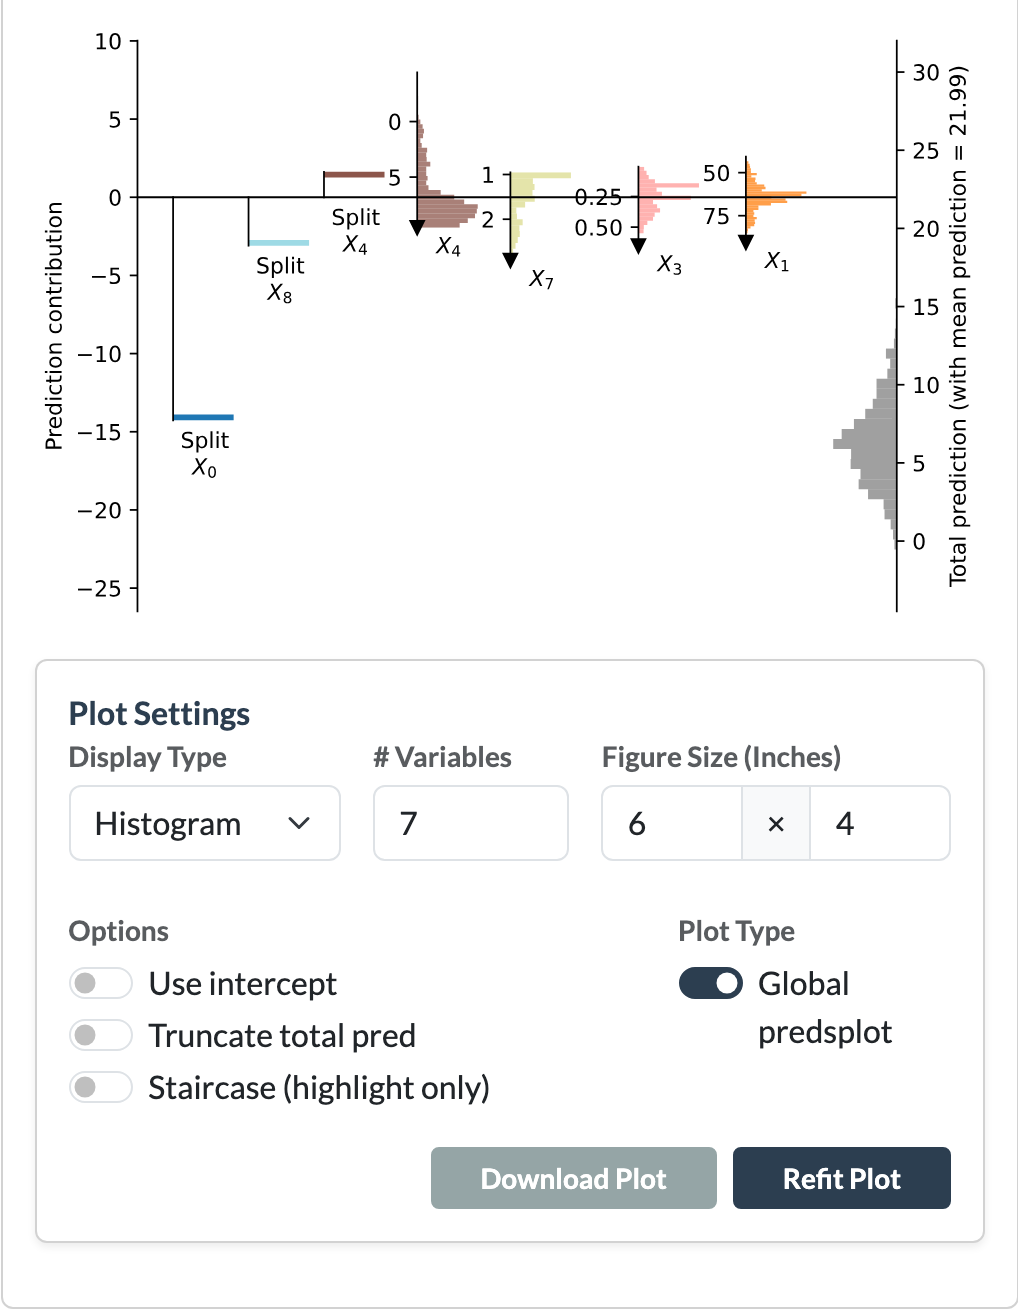
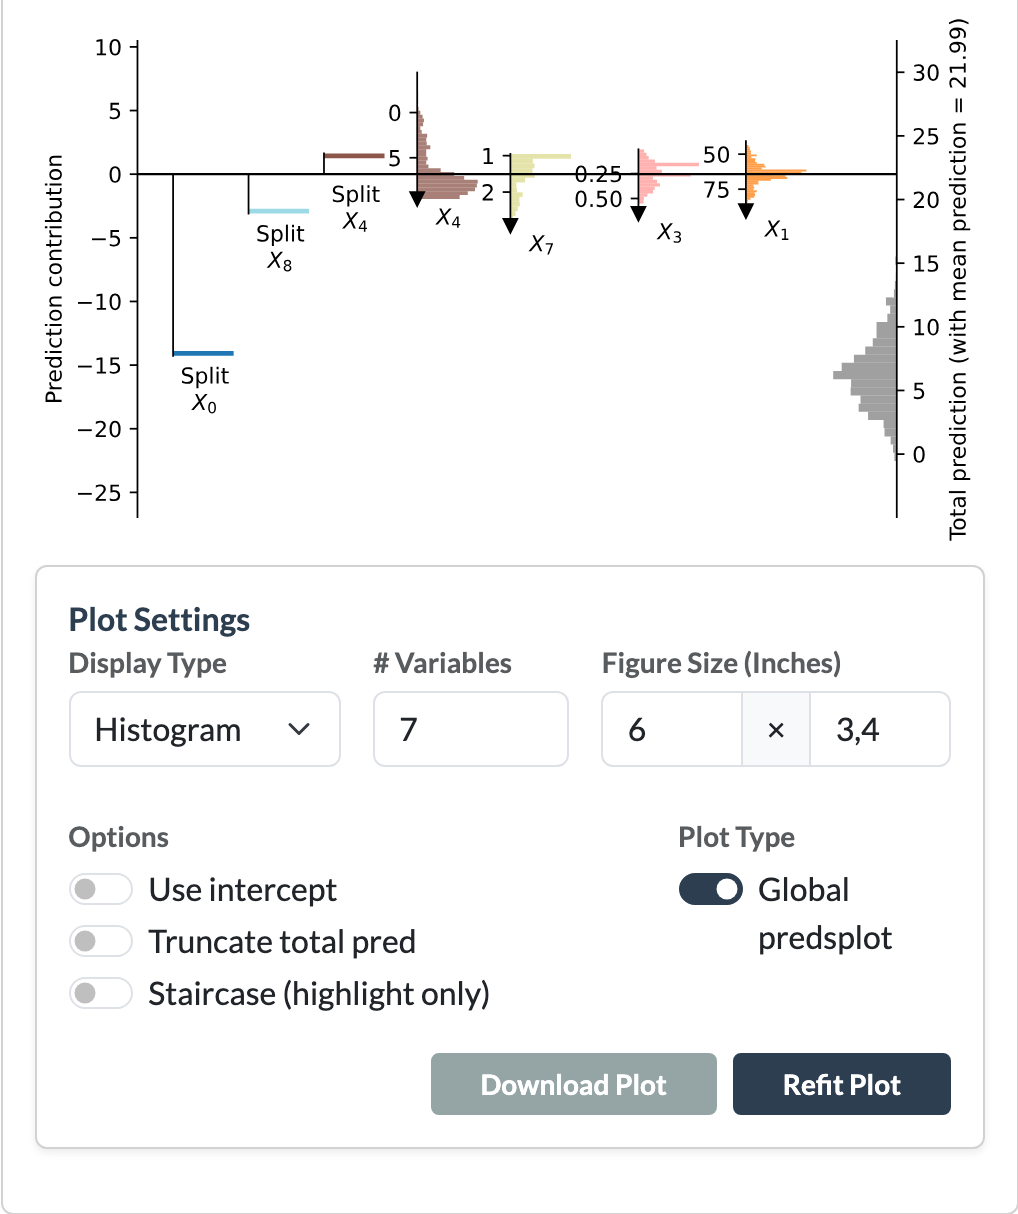
show all node plots fixes

diff --git a/imote/config.py b/imote/config.py
@@ -74,7 +74,7 @@ DEFAULT_COLLAPSE_LEVEL = 5
 DEFAULT_DISPLAY_TYPE = "histogram"
 DEFAULT_NMAX = 7
 DEFAULT_FIG_W = 6
-DEFAULT_FIG_H = 4
+DEFAULT_FIG_H = 3.4
 
 MIN_EDGE_WIDTH = 0.8
 MAX_EDGE_WIDTH = 8
@@ -95,6 +95,11 @@ def get_initial_graph_info():
 # ── Stylesheet ────────────────────────────────────────────────────────────
 font_family = "Arial, sans-serif"
 font_size = 12
+
+NODE_PLOTS_FIG_SIZE = (4.4, 2.6)
+NODE_PLOTS_N_MAX = 6
+NODE_PLOTS_EXTRA_SEP = 40
+plots_on_font_size = 28
 selected_color = "#000000"
 CYTOSCAPE_STYLESHEET = [
     # ── Default node ──────────────────────────────────────────────────────
@@ -139,24 +144,46 @@ CYTOSCAPE_STYLESHEET = [
             "shape": "rectangle",
         },
     },
+    # ── Show all node plots ───────────────────────────────────────────────
+    {
+        "selector": "node.plots_on",
+        "style": {
+            "font-size": f"{plots_on_font_size}px",
+            "text-max-width": "300px",
+            "width": "220px",
+            "height": "90px",
+            "border-width": "3px",
+        },
+    },
+    {
+        "selector": "node.LeafNode.plots_on",
+        "style": {
+            "width": "340px",
+            "height": "130px",
+        },
+    },
+    {
+        "selector": "node.regplot, node.predsplot",
+        "style": {
+            "label": "",
+            "shape": "rectangle",
+            "width": f"{NODE_PLOTS_FIG_SIZE[0] * 100}px",
+            "height": f"{NODE_PLOTS_FIG_SIZE[1] * 100}px",
+            "background-fit": "contain",
+            "background-opacity": 0,
+            "border-width": 0,
+        },
+    },
     {
         "selector": "node.regplot",
         "style": {
-            "label": "",
             "background-image": 'data(dir_regplot)',
-            "shape": "rectangle",
-            "width": "500px",
-            "height": "300px",
         },
     },
     {
         "selector": "node.predsplot",
         "style": {
-            "label": "",
             "background-image": 'data(dir_predsplot)',
-            "shape": "rectangle",
-            "width": "500px",
-            "height": "300px",
         },
     },
     {
@@ -218,6 +245,15 @@ CYTOSCAPE_STYLESHEET = [
         },
     },
     {
+        "selector": "edge.plots_on",
+        "style": {
+            "width": 4,
+            "arrow-scale": 2,
+            "font-size": f"{plots_on_font_size}px",
+            "text-background-padding": "8px",
+        },
+    },
+    {
         "selector": "edge.data_width",
         "style": {
             "width": "data(width)"
@@ -247,6 +283,12 @@ CYTOSCAPE_STYLESHEET = [
             "line-color": selected_color,
             "target-arrow-color": selected_color,
             "width": 4,
+        },
+    },
+    {
+        "selector": "edge.highlight.plots_on",
+        "style": {
+            "width": 10,
         },
     },
 ]

diff --git a/imote/callbacks/g_elements_callbacks.py b/imote/callbacks/g_elements_callbacks.py
@@ -4,7 +4,7 @@ from dash import Input, Output, State, html, no_update, ctx
 from dash.exceptions import PreventUpdate
 
 from imote import ids, status
-from imote.config import DIR_LIVE_OUTPUT
+from imote.config import DIR_LIVE_OUTPUT, NODE_PLOTS_FIG_SIZE, NODE_PLOTS_N_MAX
 from imote.viz_tree.viz_tree import VizTree
 from imote.viz_tree.viz_tree_cytoscape import viz_tree_to_cytoscape_elements
 
@@ -108,14 +108,8 @@ def register_callbacks(app):
         State(ids.SWITCH_COLOR_FEATURES, "value"),
         State(ids.SWITCH_RSS, "value"),
         State(ids.STORE_VIZ_TREE, "data"),
-        State(ids.INPUT_DISPLAY_TYPE, "value"),
-        State(ids.INPUT_NMAX, "value"),
-        State(ids.INPUT_FIG_W, "value"),
-        State(ids.INPUT_FIG_H, "value"),
-        State(ids.PREDSPLOT_OPTIONS, "value"),
         State(ids.STORE_HIGHLIGHT_X, "data"),
         State(ids.HIGHLIGHT_OPTIONS, "value"),
-        State(ids.PREDSPLOT_TYPE, "value"),
         State(ids.SWITCH_DATA_EDGE_WIDTH, "value"),
         State(ids.SWITCH_DATA_NODE_SIZE, "value"),
         State(ids.STORE_TREE_PARAMS, "data"),
@@ -131,14 +125,8 @@ def register_callbacks(app):
             use_color_features,
             show_rss,
             viz_tree_dict,
-            display_type,
-            nmax,
-            figw,
-            figh,
-            predsplot_options,
             highlight_x,
             highlight_options,
-            predsplot_type,
             use_edge_width,
             use_node_size,
             tree_params,
@@ -149,10 +137,6 @@ def register_callbacks(app):
         if viz_tree_dict is None:
             raise PreventUpdate
 
-        use_intercept = "intercept" in predsplot_options
-        truncate_total_pred = "truncate" in predsplot_options
-        staircase = "staircase" in predsplot_options
-        type2 = "type2" in predsplot_type
         only_show_highlight = "only_show_highlight" in highlight_options
 
         viz_tree = VizTree.from_dict(viz_tree_dict)
@@ -169,13 +153,12 @@ def register_callbacks(app):
                 use_color_features = use_color_features,
                 show_rss=show_rss,
                 show_node_plots=show_node_plots,
-                fig_size=(figw, figh),
-                predsplot_n_max=nmax,
-                predsplot_use_intercept=use_intercept,
-                predsplot_display_type=display_type,
-                predsplot_truncate_total_pred=truncate_total_pred,
-                predsplot_staircase=staircase,
-                predsplot_type2=type2,
+                fig_size=NODE_PLOTS_FIG_SIZE,
+                predsplot_n_max=NODE_PLOTS_N_MAX,
+                predsplot_display_type="histogram",
+                predsplot_truncate_total_pred=False,
+                predsplot_staircase=False,
+                predsplot_type2=True,
                 highlight_x=highlight_x_arr,
                 only_show_highlight=only_show_highlight,
                 use_edge_width = use_edge_width,

diff --git a/imote/plots/predsplot2.py b/imote/plots/predsplot2.py
@@ -24,7 +24,7 @@ DOT_SIZE = 4
 
 def predsplot2(viz_tree:VizTree, leaf_node:LeafNode, y_hat, n_max=5, fig_size=(10, 5),
               feature_names=None, all_feature_colors=None, display_type="histogram", truncate_total_pred=False,
-              variable_tick_width=True, file_directory=None, highlight_x=None, staircase=False):
+              variable_tick_width=True, file_directory=None, highlight_x=None, staircase=False, short_labels=False):
     """
     Create a prediction plot for a vizualization of tree and a leaf node.
 
@@ -54,9 +54,11 @@ def predsplot2(viz_tree:VizTree, leaf_node:LeafNode, y_hat, n_max=5, fig_size=(1
         x values of point to highlight
     staircase : bool, default=False
         If True and highlight_x is not None, uses staircase view of highlighted point
+    short_labels : bool, default=False
+        If True, the right axis label is only "Total prediction", without the mean prediction, so it fits small plots
     """
     fig_width, fig_height = fig_size
-    if fig_height < 3:
+    if fig_height < 3 and not short_labels:
         warnings.warn(
             "Plot height is small, the default titles will be cropped. "
             "Consider making the figure larger or higher."
@@ -299,7 +301,10 @@ def predsplot2(viz_tree:VizTree, leaf_node:LeafNode, y_hat, n_max=5, fig_size=(1
         predictions_min_with_margin + center_predictions,
         predictions_max_with_margin + center_predictions
     ])
-    ax_right.set_ylabel(f"Total prediction (with {center_label} = {np.round(center_predictions, 2)})")
+    if short_labels:
+        ax_right.set_ylabel("Total prediction")
+    else:
+        ax_right.set_ylabel(f"Total prediction (with {center_label} = {np.round(center_predictions, 2)})")
 
     if highlight:
         if highlight_x_sum_contributions < 0:

diff --git a/imote/viz_tree/viz_tree_cytoscape.py b/imote/viz_tree/viz_tree_cytoscape.py
@@ -16,7 +16,8 @@ from imote.plots.predsplot import predsplot
 from imote.plots.predsplot2 import predsplot2
 from imote.plots.regplot import make_regression_plot
 from datetime import datetime
-from imote.config import NODE_TYPE_COLORS, MIN_EDGE_WIDTH, MAX_EDGE_WIDTH, MIN_NODE_HEIGHT, MAX_NODE_HEIGHT
+from imote.config import (NODE_TYPE_COLORS, MIN_EDGE_WIDTH, MAX_EDGE_WIDTH, MIN_NODE_HEIGHT, MAX_NODE_HEIGHT,
+                          NODE_PLOTS_FIG_SIZE)
 
 # ── Convert a VizTree into Cytoscape elements (nodes + edges) ──────────────────
 def viz_tree_to_cytoscape_elements(
@@ -26,7 +27,7 @@ def viz_tree_to_cytoscape_elements(
         show_rss: bool = False,
         use_color_features: bool = False,
         show_node_plots: bool = False,
-        fig_size = (5, 3),
+        fig_size = NODE_PLOTS_FIG_SIZE,
         predsplot_n_max = 5,
         predsplot_use_intercept = False,
         predsplot_display_type = "histogram",
@@ -193,6 +194,7 @@ def viz_tree_to_cytoscape_elements(
                            staircase=predsplot_staircase,
                            feature_names=None,
                            all_feature_colors=feature_colors,
+                           short_labels=True,
                            )
                 data["dir_predsplot"] = f"/internal_predsplots/predsplot2_node{node.id}_{elements_id}.svg"
                 classes.append("predsplot")
@@ -289,5 +291,9 @@ def viz_tree_to_cytoscape_elements(
             classes.append("data_width")
 
         elements.append({"data": edge_data, "classes": " ".join(classes)})
+
+    if show_node_plots:
+        for element in elements:
+            element["classes"] = f"{element['classes']} plots_on".strip()
 
     return elements

diff --git a/imote/callbacks/e_layout_callbacks.py b/imote/callbacks/e_layout_callbacks.py
@@ -2,6 +2,8 @@ import time
 from dash import Input, Output, State
 
 from imote import ids
+from imote.config import NODE_PLOTS_EXTRA_SEP
+
 _DISPLAY_DIRECTION_TO_DAGRE = {"Top Bottom": "TB", "Left Right": "LR"}
 _NODE_RANKER_TO_DAGRE = {"Compact": "network-simplex", "Align leaves to bottom": "longest-path"}
 
@@ -23,9 +25,13 @@ def register_callbacks(app):
         Input(ids.NODE_RANKER, "value"),
         Input(ids.RANK_SEP, "value"),
         Input(ids.NODE_SEP, "value"),
+        Input(ids.SWITCH_NODE_PLOTS, "value"),
         prevent_initial_call=True,
     )
-    def update_layout(n_clicks, rank_dir, node_rank, rank_sep, node_sep):
+    def update_layout(n_clicks, rank_dir, node_rank, rank_sep, node_sep, show_node_plots):
+        if show_node_plots:
+            rank_sep += NODE_PLOTS_EXTRA_SEP
+            node_sep += NODE_PLOTS_EXTRA_SEP
         return {
             "name": "dagre",
             "rankDir": _DISPLAY_DIRECTION_TO_DAGRE[rank_dir],

diff --git a/tests/viz_tree/test_viz_tree_cytoscape.py b/tests/viz_tree/test_viz_tree_cytoscape.py
@@ -105,3 +105,8 @@ def test_no_predsplot_for_zero_coefficient_leaf(split_tree, live_dir):
     nodes = nodes_of(elements(split_tree, live_dir, show_node_plots=True))
     assert "dir_predsplot" not in nodes["node4"]["data"]
     assert "dir_predsplot" in nodes["node3"]["data"]
+
+
+def test_node_plots_mark_all_elements(pilot_tree, live_dir):
+    assert all("plots_on" in e["classes"] for e in elements(pilot_tree, live_dir, show_node_plots=True))
+    assert not any("plots_on" in e["classes"] for e in elements(pilot_tree, live_dir))

diff --git a/docs_scripts/make_screenshots.py b/docs_scripts/make_screenshots.py
@@ -211,13 +211,13 @@ def screenshot_highlight(browser: Browser, url: str):
 
 
 SCREENSHOTS = [
-    # screenshot_overview,
-    # screenshot_tree_info,
+    screenshot_overview,
+    screenshot_tree_info,
     screenshot_node_info,
-    # screenshot_new_tree,
-    # screenshot_edit_tree,
-    # screenshot_layout,
-    # screenshot_highlight,
+    screenshot_new_tree,
+    screenshot_edit_tree,
+    screenshot_layout,
+    screenshot_highlight,
 ]
 
 
